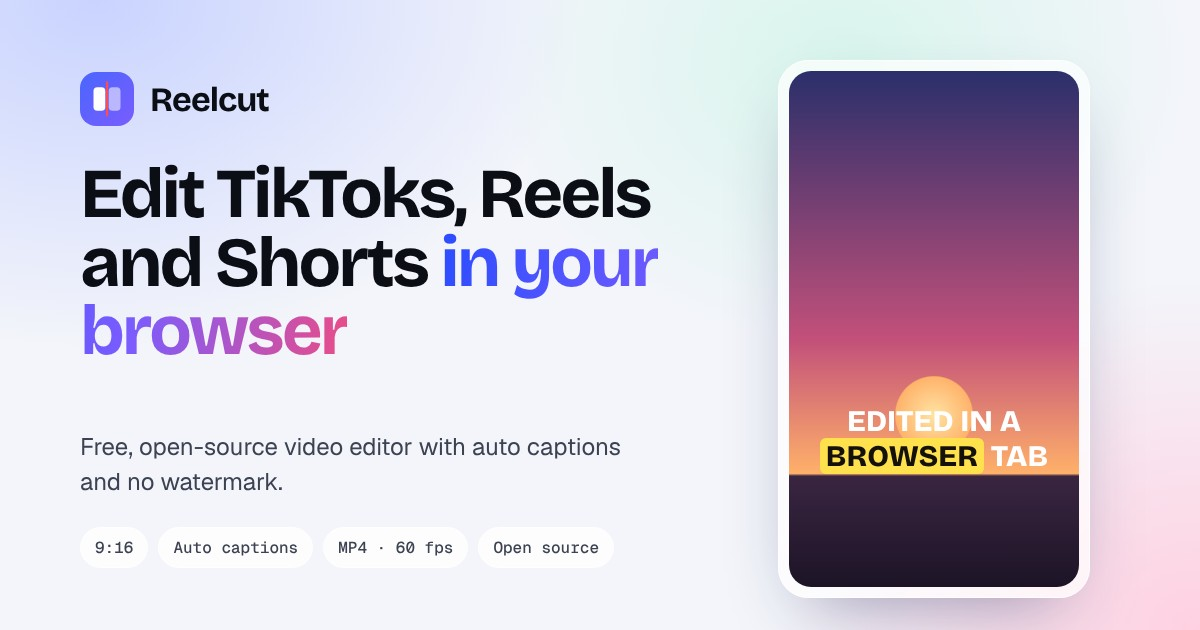
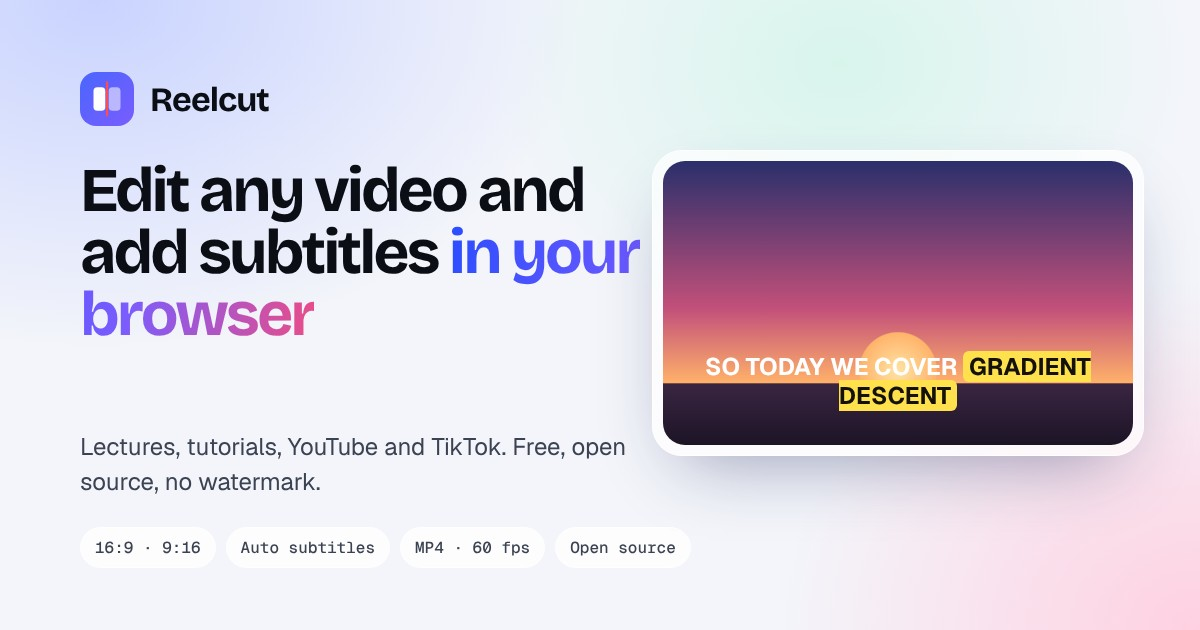
Reelcut

diff --git a/apps/web/public/landing.html b/apps/web/public/landing.html
@@ -5,14 +5,14 @@
 <meta name="viewport" content="width=device-width, initial-scale=1, viewport-fit=cover">
 <title>Reelcut</title>
 <meta name="claude:viewport-fit-sides" content="cover">
-<meta name="description" content="Reelcut is a free, open-source video editor that runs in your browser. Multi-track timeline, on-device auto captions, 9:16 presets, no watermark.">
+<meta name="description" content="Reelcut is a free, open-source video editor that runs in your browser. Edit any video, add auto subtitles on your device, export with no watermark.">
 <link rel="icon" href="/favicon.ico" sizes="any">
 <link rel="icon" type="image/png" sizes="32x32" href="/icons/favicon-32x32.png">
 <link rel="apple-touch-icon" href="/icons/apple-icon-180x180.png">
 <link rel="manifest" href="/manifest.json">
 <meta property="og:type" content="website">
-<meta property="og:title" content="Reelcut: edit TikToks, Reels and Shorts in your browser">
-<meta property="og:description" content="A free, open-source video editor with auto captions, 9:16 presets and no watermark. Your footage stays on your device.">
+<meta property="og:title" content="Reelcut: edit any video and add subtitles in your browser">
+<meta property="og:description" content="Lectures, tutorials, YouTube videos and TikToks. A free, open-source editor with auto subtitles and no watermark. Your footage stays on your device.">
 <meta property="og:image" content="/open-graph/default.jpg">
 <meta name="twitter:card" content="summary_large_image">
 <meta name="twitter:creator" content="@zodchiii">
@@ -368,8 +368,8 @@ footer a { text-decoration: none; } footer a:hover { color: var(--ink); }
   <section class="hero">
     <div class="wrap">
       <a class="pill glass" href="https://github.com/percyitchy/reelcut" target="_blank" rel="noopener"><b>Open source</b>Free video editor that runs in your browser</a>
-      <h1>Edit TikToks, Reels and Shorts <span class="grad">right in your browser</span></h1>
-      <p class="lede">A full video editor with a multi-track timeline, auto captions and vertical presets. Nothing to install, no watermark on export, and your footage stays on your device.</p>
+      <h1>Edit any video and add subtitles, <span class="grad">right in your browser</span></h1>
+      <p class="lede">Lectures, tutorials, YouTube videos and TikToks. Cut, caption and export without installing anything, and your footage never leaves your device.</p>
 
       <div class="access" id="access">
         <div data-gate>
@@ -444,7 +444,7 @@ footer a { text-decoration: none; } footer a:hover { color: var(--ink); }
     <div class="wrap">
       <div class="head">
         <div class="eyebrow">Features</div>
-        <h2>Everything a short video needs, in one tab</h2>
+        <h2>Everything your video needs, in one tab</h2>
         <p>Cut your clips, caption them and export in the format each platform wants. The whole editor loads in the browser you already use.</p>
       </div>
 
@@ -461,11 +461,11 @@ footer a { text-decoration: none; } footer a:hover { color: var(--ink); }
 
         <article class="card c-ver">
           <div class="duo"><svg width="20" height="20" viewBox="0 0 20 20" aria-hidden="true"><rect x="5.5" y="1.5" width="9" height="17" rx="2.6" fill="#2B4DFF" opacity=".25"/><rect x="5.5" y="1.5" width="9" height="17" rx="2.6" fill="none" stroke="#2B4DFF" stroke-width="1.7"/></svg></div>
-          <h3>Vertical first</h3>
-          <p>Start in 9:16 for TikTok, Reels and Shorts, then switch formats when you post elsewhere.</p>
+          <h3>Any format</h3>
+          <p>16:9 for YouTube and lectures, 9:16 for TikTok, Reels and Shorts, plus square and 4:3.</p>
           <div class="viz">
-            <div class="aspect"><div class="box" id="abox">9:16</div></div>
-            <div class="slider" id="slider"><div class="blob" id="blob"></div><span class="on">9:16</span><span>1:1</span><span>4:3</span><span>16:9</span></div>
+            <div class="aspect"><div class="box" id="abox">16:9</div></div>
+            <div class="slider" id="slider"><div class="blob" id="blob"></div><span class="on">16:9</span><span>9:16</span><span>1:1</span><span>4:3</span></div>
           </div>
         </article>
 
@@ -545,7 +545,7 @@ footer a { text-decoration: none; } footer a:hover { color: var(--ink); }
       </div>
       <div class="steps">
         <div class="step glass"><div class="n">1</div><h3>Enter your email</h3><p>Type your email to unlock the editor. Access is free and stays open on this device.</p></div>
-        <div class="step glass"><div class="n">2</div><h3>Open the editor</h3><p>Create a project and pick 9:16 for TikTok, Reels and Shorts, or any other canvas.</p></div>
+        <div class="step glass"><div class="n">2</div><h3>Open the editor</h3><p>Create a project and pick a format: 16:9 for YouTube and lectures, 9:16 for shorts.</p></div>
         <div class="step glass"><div class="n">3</div><h3>Drop in your footage</h3><p>Cut, caption and export. Your files load from your computer and stay there.</p></div>
       </div>
     </div>
@@ -558,6 +558,7 @@ footer a { text-decoration: none; } footer a:hover { color: var(--ink); }
         <details open><summary>Is Reelcut really free?</summary><p>Yes. The editor is free with no watermark and no export limits. It is open source under the MIT license, so the code will stay public.</p></details>
         <details><summary>Why do you ask for my email?</summary><p>Your email unlocks the editor and lets us tell you when new features ship. We don't sell it, and you can ask us to delete it at any time.</p></details>
         <details><summary>Do my videos get uploaded anywhere?</summary><p>No. Footage is loaded from your computer and kept in your browser's storage. Captions are generated on your device as well.</p></details>
+        <details><summary>Can I add subtitles to a long lecture?</summary><p>Yes. Import the recording, open Captions and pick a model. For long videos use the Small model in Chrome or Edge: everything runs on your computer, so an hour of audio takes a while to transcribe.</p></details>
         <details><summary>Which browser should I use?</summary><p>A recent version of Chrome, Edge, Arc or Brave works best. The largest caption model runs best with WebGPU, which these browsers support.</p></details>
         <details><summary>How is this related to OpenCut?</summary><p>Reelcut is a redesigned fork of OpenCut, an open-source video editor released under the MIT license. Credit for the editor engine goes to the OpenCut team.</p></details>
       </div>
@@ -726,7 +727,7 @@ gl_FragColor=vec4(mix(base,c,a),1.);}`;
   }
 
   /* ---------- aspect morph + liquid slider ---------- */
-  const SIZES = [["9:16", 70, 124], ["1:1", 112, 112], ["4:3", 136, 102], ["16:9", 168, 94]];
+  const SIZES = [["16:9", 168, 94], ["9:16", 70, 124], ["1:1", 112, 112], ["4:3", 136, 102]];
   const abox = document.getElementById("abox"), blob = document.getElementById("blob"), sl = document.querySelectorAll("#slider span");
   let ai = 0;
   const setAspect = i => { const [lab, w, h] = SIZES[i]; abox.style.width = w + "px"; abox.style.height = h + "px"; abox.textContent = lab; blob.style.left = `calc(${i * 25}% + 3px)`; sl.forEach((s, k) => s.classList.toggle("on", k === i)); };

diff --git a/apps/web/src/site/brand.ts b/apps/web/src/site/brand.ts
@@ -4,7 +4,7 @@ export const SITE_URL =
 export const SITE_INFO = {
 	title: "Reelcut",
 	description:
-		"A free, open-source video editor that runs in your browser. Edit TikToks, Reels and Shorts with auto captions and no watermark.",
+		"A free, open-source video editor that runs in your browser. Edit any video and add auto subtitles, with no watermark.",
 	url: SITE_URL,
 	openGraphImage: "/open-graph/default.jpg",
 	twitterImage: "/open-graph/default.jpg",

diff --git a/README.md b/README.md
@@ -1,6 +1,6 @@
 # Reelcut
 
-A free, open-source video editor that runs in your browser. Edit TikToks, Reels and Shorts with a multi-track timeline, on-device auto captions and 9:16 presets. There is nothing to install, no watermark on export, and your footage stays on your device.
+A free, open-source video editor that runs in your browser. Edit any video, from lectures and tutorials to YouTube and TikTok, with a multi-track timeline, on-device auto subtitles and presets for every format. There is nothing to install, no watermark on export, and your footage stays on your device.
 
 ![Reelcut](apps/web/public/open-graph/default.jpg)
 
